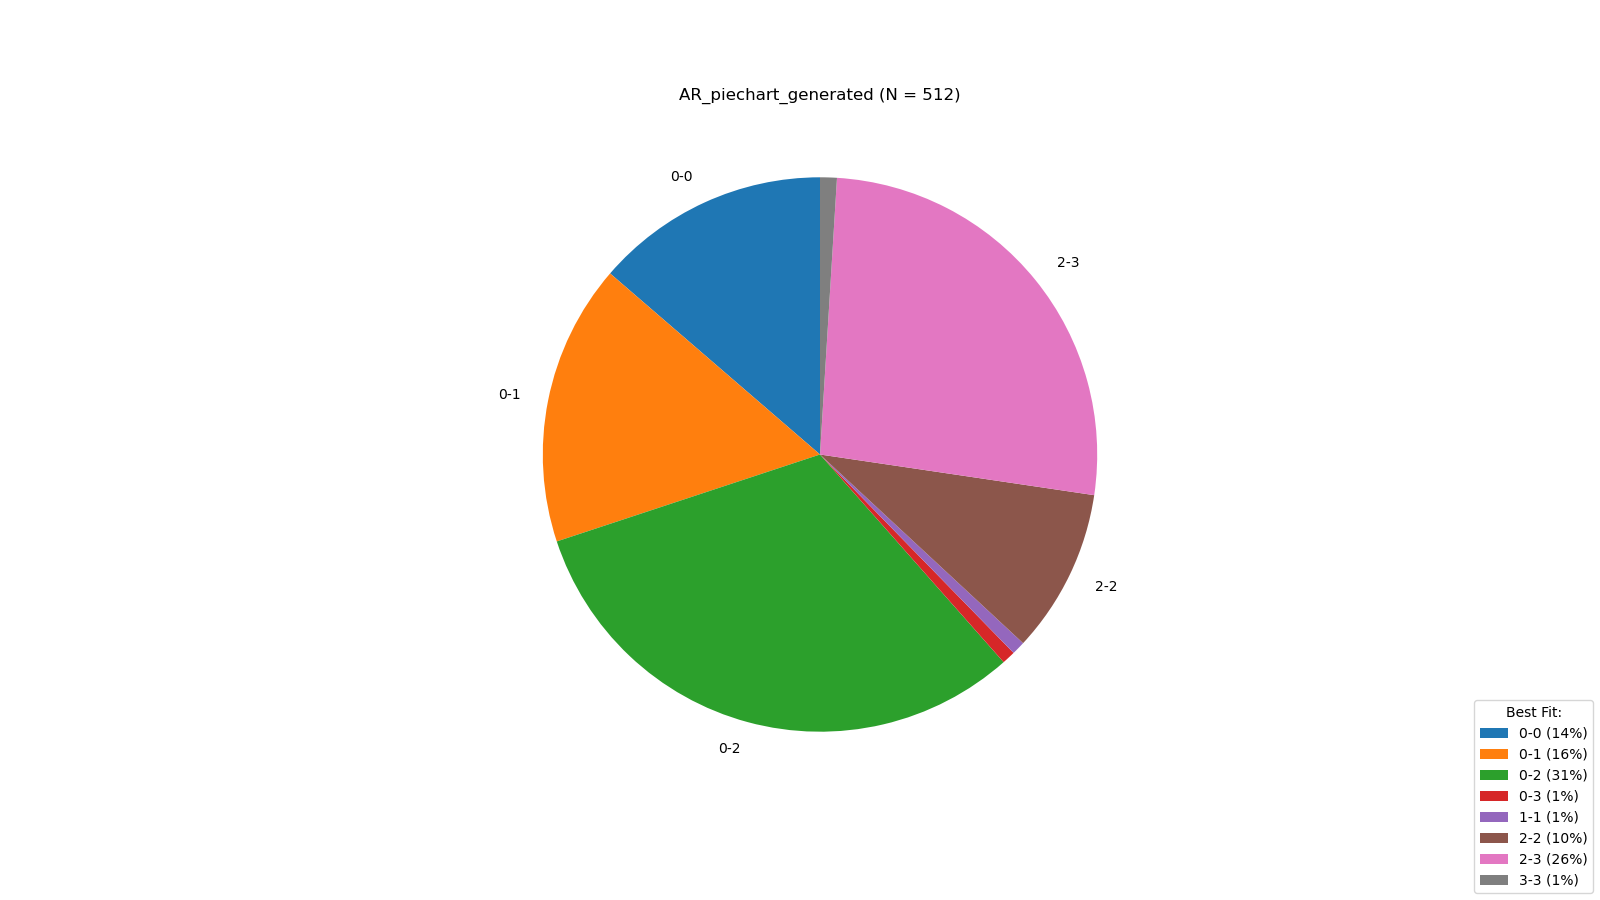
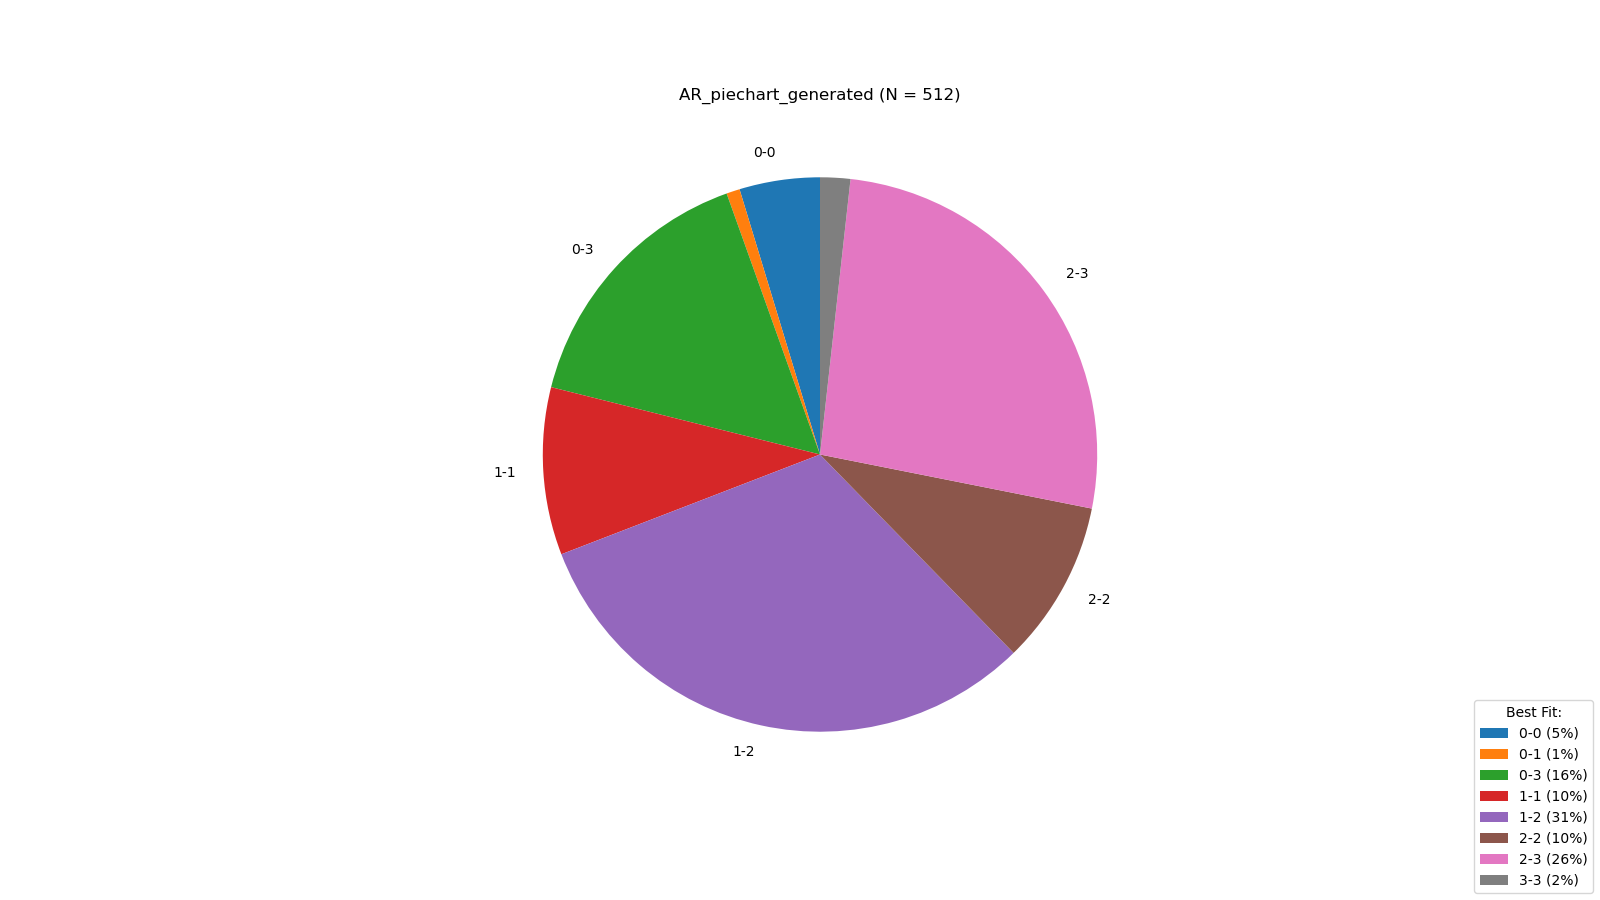
New dihedral clustering algorithms

diff --git a/scripts/clustering.py b/scripts/clustering.py
@@ -988,20 +988,39 @@ def plot_clustered_pcas(reference, force=True, dimensions = 3, pca_dimensions = 
     return fig_path
 
 
-def quick_cluster(coords, n_clusters=3, method ="MeanShift",bandwidth = None):
+def quick_cluster(coords, n_clusters=3, method ="MeanShift",bandwidth = None, min_cluster=None):
 
-    if method=="KMeans":
+    if method == "KMeans":
         from sklearn.cluster import KMeans
-        model = KMeans(n_clusters=n_clusters, random_state=6, algorithm="elkan")
-    elif method=="MeanShift":
-        from sklearn.cluster import MeanShift, estimate_bandwidth
-        print1("Clustering with MeanShift, bandwith:", end=" ")
+        print1("Clustering with KMeans")
 
+        model = KMeans(n_clusters=n_clusters, random_state=6, algorithm="elkan")
+
+    elif method == "MeanShift" or method is None: # DEFAULT
+        from sklearn.cluster import MeanShift, estimate_bandwidth
+        print1("Clustering with MeanShift")
         if bandwidth is None:
             bandwidth = estimate_bandwidth(coords)
-        print2(bandwidth)
+        print2("Bandwith:", bandwidth)
         model = MeanShift(bandwidth=bandwidth, bin_seeding=False, cluster_all=False, n_jobs=-1)
 
+    elif method == "HDBSCAN":
+        from sklearn.cluster import HDBSCAN
+        print1("Clustering with HDBSCAN")
+        if len(coords) == 1:
+            return quick_cluster(coords, n_clusters=1, method="KMeans")
+        if min_cluster is None:
+            min_cluster = max(len(coords)//10, 2)
+        model = HDBSCAN(min_cluster_size=min_cluster, allow_single_cluster=True)
+
+    elif method == "DBSCAN":
+        from sklearn.cluster import DBSCAN
+        print1("Clustering with DBSCAN")
+        if len(coords) == 1:
+            return quick_cluster(coords, n_clusters=1, method="KMeans")
+        if min_cluster is None:
+            min_cluster = max(len(coords)//10, 2)
+        model = DBSCAN(min_samples=min_cluster, eps=5)
 
     model.fit(coords)
     print2("Clusters:", [int(l) for l in set(model.labels_)])
@@ -1602,13 +1621,13 @@ class Cluster2:
     def __repr__(self):
         return "<Cluster:{} {}-{} /N={}>". format(self.ref_name, self.c1, self.c2, self.ndimers)
 
-    def process_cluster(self, force = False, matrix=True, faces=False, use_face="generated", **kwargs):
+    def process_cluster(self, force = False, matrix=True, faces=False, use_face="generated", dihedral_algorithm=None,**kwargs):
         print1("Processing {}: FORCE={} matrix={}, faces={}".format(self.id, force, matrix, faces))
         if not self.is_all:
             self.remove_identical()
             if self.comA is None or force:
                 self.get_com()
-                self.cluster_dihedrals()
+                self.cluster_dihedrals(method=dihedral_algorithm)
 
         if matrix:
             if self.matrix is None or force:
@@ -2146,31 +2165,34 @@ class Cluster2:
     def get_right_angles(self):
         pass
 
-    def cluster_dihedrals(self):
+    def cluster_dihedrals(self, method=None, show=False):
         from maths import angle_modulus
         dihedrals = [list(map(angle_modulus,[row.d0, row.d1, row.d2])) for row in self.subset.itertuples()]
         #print(dihedrals)
         fig = plt.figure()
         ax = fig.add_subplot(111, projection="3d")
 
-        labels = quick_cluster(dihedrals, bandwidth = 90)
+        labels = quick_cluster(dihedrals, bandwidth = 90, method = method)
         #print(labels)
         for d, l in zip(dihedrals, labels):
-            print(d)
+            #print(d)
             if l == -1:
                 c = "black"
             else:
                 c = "C"+str(l)
             ax.scatter(*d, color=c)
         ax.set_aspect('equal')
+        ax.set_title("{} ({}, N={})".format(self.id, method, len(dihedrals)))
 
         self.subset.loc[:, "dihedral_cluster"] = labels
         self.cD_list = labels
         local["dihedral_subplots"] = "images/dihedral_subplots"
         fig_path = os.path.join(local.dihedral_subplots, self.id+"_dihedrals.png")
         fig.savefig(fig_path)
+        print2("Saving to: {}".format(fig_path))
         #print(self.subset)
-        #plt.show(block=True)
+        if show:
+            plt.show(block=True)
         plt.close()
 
 

diff --git a/scripts/main.py b/scripts/main.py
@@ -57,7 +57,8 @@ def main(PROCESS_ALL = False,
          REFRESH_PLOTS = True,
          REPROCESS_CLUSTERS = False,
          USE_FACES = "eva",
-         PLOT_DIHEDRALS = False
+         PLOT_DIHEDRALS = False,
+         DIHEDRAL_ALGORITHM  = "MeanShift"
          ):
 
 
@@ -286,12 +287,16 @@ def main(PROCESS_ALL = False,
                 if cluster.is_all:
                     continue
                 sprint(cluster.id)
-                cluster.process_cluster(force=REPROCESS_CLUSTERS or USE_FACES not in cluster.faces.keys(), faces = True, use_face=USE_FACES)
+                cluster.process_cluster(force=REPROCESS_CLUSTERS or USE_FACES not in cluster.faces.keys(),
+                                        faces = True,
+                                        use_face=USE_FACES,
+                                        dihedral_algorithm=DIHEDRAL_ALGORITHM)
                 cluster.pickle()
 
         cluster_colours = None
         if PLOT_DIHEDRALS:
             cluster_colours = "dihedrals"
+
 
         for cluster in load_clusters(identifier=identifier, onebyone=True):
             sprint(cluster.id)
@@ -446,9 +451,10 @@ if __name__ == "__main__":
         GENERATE_CLUSTERS = False or "clusters" in sys.argv,
         DELETE_PREVIOUS = False or "delete" in sys.argv,
         REFRESH_PLOTS = False or "replot" in sys.argv,
-        REPROCESS_CLUSTERS = False ,
+        REPROCESS_CLUSTERS = False or "reprocess" in sys.argv,
         USE_FACES = "generated", # "eva" or "generated"
         PLOT_DIHEDRALS = False or "dihedrals" in sys.argv,
+        DIHEDRAL_ALGORITHM  = "DBSCAN",
 
 
         )

diff --git a/scripts/visualisation.py b/scripts/visualisation.py
@@ -437,6 +437,7 @@ if __name__ == "__main__":
 
             else:
                 for cluster in load_clusters(identifier=sys.argv[2], onebyone=True):
+                    print(cluster.subset.to_string())
                     if "mpl" in sys.argv:
                         show_objects(load_clusters(identifier=sys.argv[2]), sys.argv[2:])
                         cluster.show_mpl(show=True, save=False)

diff --git a/scripts/test.py b/scripts/test.py
@@ -19,9 +19,10 @@ print1("References loaded")
 from clustering import get_faces, compare_all_with_eva, cluster_redundancy, get_space_groups, generate_cluster_grids
 
 
-for cluster in load_clusters("GR", onebyone=True):
+for cluster in load_clusters("ALL", onebyone=True):
     tprint(cluster.id)
     cluster.cluster_dihedrals()
+    cluster.pickle()
 
 quit()
 generate_cluster_grids(identifier="ER")
